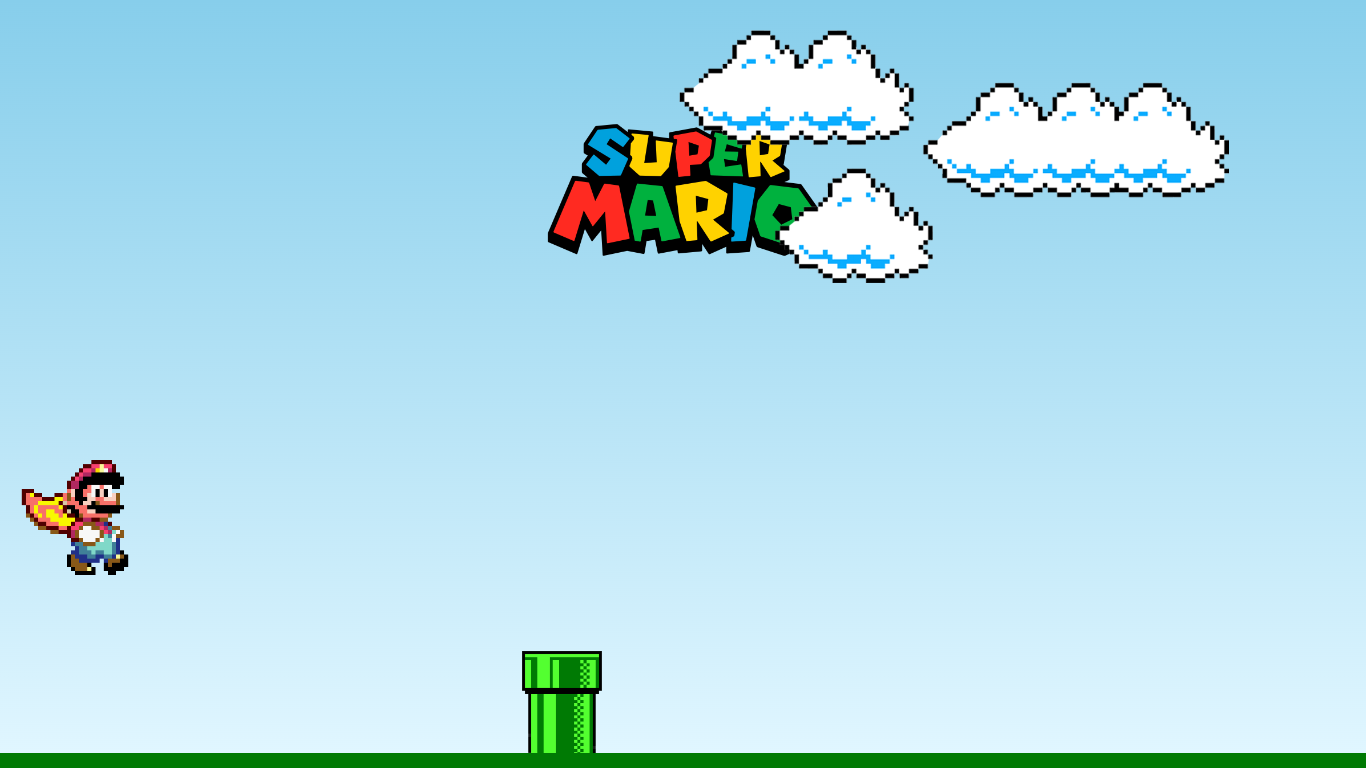
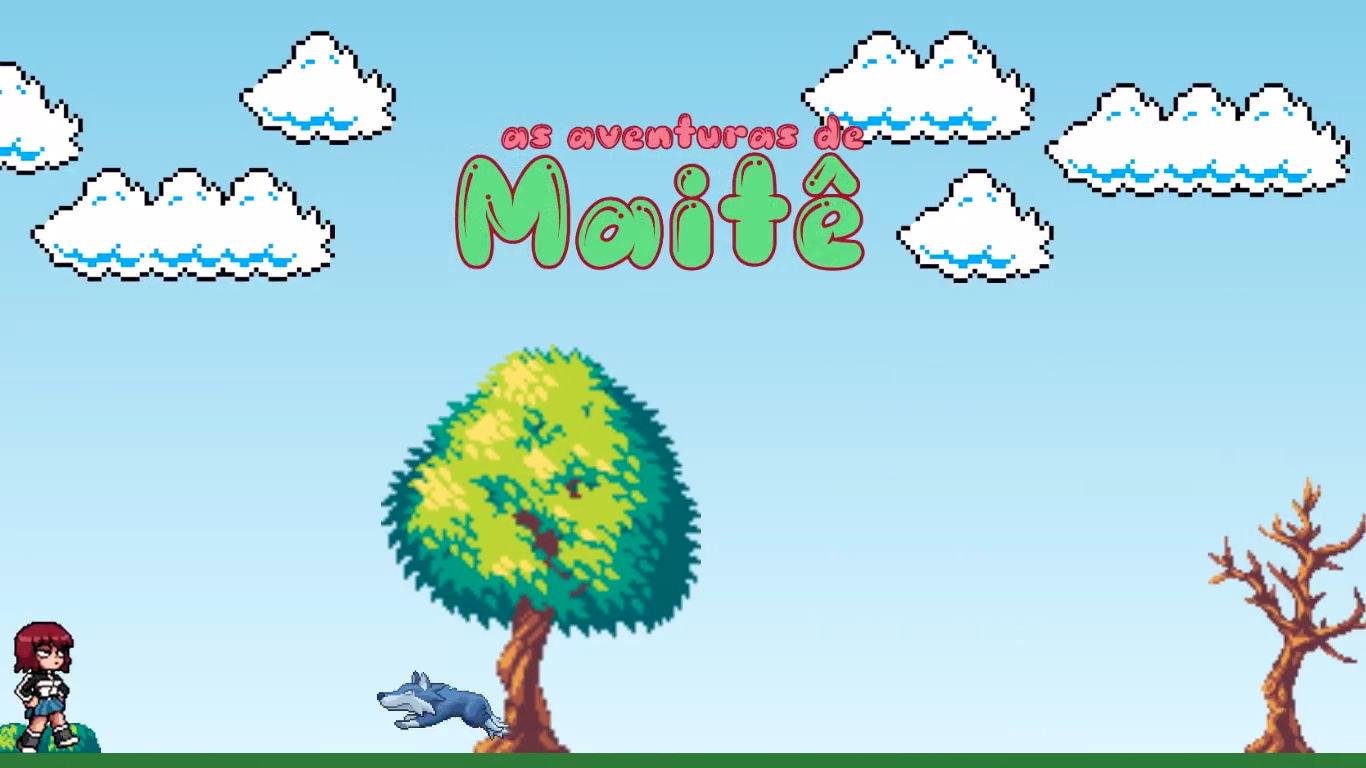
Inclusão de assets para background e personagem

diff --git a/css/style.css b/css/style.css
@@ -6,32 +6,33 @@
 
 .logo {
     position: absolute;
-    width: 20vw;
+    width: 30vw;
     top: 15%;
-    left: 40%;
+    left: 33.33%;
 }
 
 .game-board {
   width: 100%;
   height: 100vh;
-  border-bottom: 15px solid #007A04;
+  border-bottom: 15px solid #337a35;
   margin: 0 auto;
   position: relative;
   overflow: hidden;
   background: linear-gradient(#87ceeb, #e0f6ff);
 }
 
-.pipe {
+.wolf {
   position: absolute;
   bottom: 0;
-  width: 80px;
-  animation: pipe-animation 2s infinite linear;
+  width: 150px;
+  animation: wolf-animation 3s infinite linear;
 }
 
-.mario {
-  width: 150px;
+.maite {
+  width: 80px;
   position: absolute;
   bottom: 0;
+  margin-bottom: -2px;
 }
 
 .clouds {
@@ -41,18 +42,42 @@
   animation: clouds-animation 20s infinite linear;
 }
 
-.clouds2 {
-  width: 550px;
+.clouds-2 {
+  height: 252px;
   position: absolute;
   top: 30px;
-  animation: clouds-animation 30s infinite linear;
+  animation: clouds-2-animation 30s infinite linear;
+}
+
+.grass,
+.tree-1 {
+  width: 180px;
+  right: -350px;
+  position: absolute;
+  bottom: 0;
+  animation: tree-animation 10s infinite linear;
+}
+
+.tree {
+  width: 320px;
+  position: absolute;
+  bottom: 0;
+  animation: tree-animation 10s infinite linear;
+}
+
+.tree-1 {
+  animation-delay: 4s;
+}
+
+.grass {
+  animation-delay: 6.5s;
 }
 
 .jump {
   animation: jump 500ms ease-out;
 }
 
-@keyframes pipe-animation {
+@keyframes wolf-animation {
   from {
     right: -80px;
   }
@@ -83,6 +108,24 @@
 @keyframes clouds-animation {
   from {
     right: -550px;
+  }
+  to {
+    right: 100%;
+  }
+}
+
+@keyframes clouds-2-animation {
+  from {
+    right: -1550px;
+  }
+  to {
+    right: 100%;
+  }
+}
+
+@keyframes tree-animation {
+  from {
+    right: -350px;
   }
   to {
     right: 100%;

diff --git a/js/script.js b/js/script.js
@@ -1,34 +1,35 @@
-const mario = document.querySelector('.mario');
-const pipe = document.querySelector('.pipe');
+const maite = document.querySelector('.maite');
+const wolf = document.querySelector('.wolf');
 
 const jump = () => {
-  mario.classList.add('jump');
+  maite.classList.add('jump');
 
   setTimeout(() => {
-    mario.classList.remove('jump');
+    maite.classList.remove('jump');
   }, 500);
 }
 
 const loop = setInterval(() => {
 
-const pipePosition = pipe.offsetLeft;
-const marioPosition = +window.getComputedStyle(mario).bottom.replace('px', '');
+const pipePosition = wolf.offsetLeft;
+const marioPosition = +window.getComputedStyle(maite).bottom.replace('px', '');
 
-    if (pipePosition <= 120 && pipePosition > 0 && marioPosition < 80) {
+    if (pipePosition <= 80 && pipePosition > 0 && marioPosition < 80) {
 
-        pipe.style.animation = 'none';
-        pipe.style.left = `${pipePosition}px`;
+        wolf.style.animation = 'none';
+        wolf.style.left = `${pipePosition}px`;
 
-        mario.style.animation = 'none';
-        mario.style.bottom = `${marioPosition}px`;
+        maite.style.animation = 'none';
+        maite.style.bottom = `${marioPosition}px`;
 
-        mario.src = './images/game-over.png';
-        mario.style.width = '75px'
-        mario.style.marginLeft = '50px'
+        maite.src = './images/game-over.gif';
+        maite.style.width = '75px'
+        maite.style.marginLeft = '0px'
+        maite.style.marginBottom = '-2px'
 
         clearInterval(loop);
     }
 
 }, 10);
 
-document.addEventListener('keydown', jump);
+document.addEventListener('keypress', jump);

diff --git a/index.html b/index.html
@@ -8,16 +8,20 @@
     <link rel="stylesheet" href="./css/style.css">
     <script src="./js/script.js" defer></script>
 
-    <title>Super Mario Run</title>
+    <title>As Aventuras de Maitê</title>
 
 </head>
 <body>
     <div class="game-board">
 
-        <img src="./images/logo.png" class="logo">
+        <img src="./images/tree.png" class="tree">
+        <img src="./images/tree-1.png" class="tree-1">
+        <img src="./images/grass.png" class="grass">
         <img src="./images/clouds.png" class="clouds">
-        <img src="./images/pipe.png" class="pipe">
-        <img src="./images/mario.gif" class="mario">
+        <img src="./images/logo.png" class="logo">
+        <img src="./images/clouds-2.png" class="clouds-2">
+        <img src="./images/wolf.webp" class="wolf">
+        <img src="./images/maite.gif" class="maite">
 
     </div>
 </script>

diff --git a/readme.md b/readme.md
@@ -1,4 +1,4 @@
-<h1 align="center"> Super Mario Run</h1>
+<h1 align="center">🌳 As Aventuras de Maitê 🐺</h1>
 
 <p align="center">
 Game desenvolvido utilizando apenas linguagens básicas para prática de aprendizado.
@@ -15,12 +15,12 @@ Game desenvolvido utilizando apenas linguagens básicas para prática de aprendi
 <br>
 
 <p align="center">
-  <img alt="calendario da copa" src="./images/preview.png" width="100%">
+  <img alt="As Aventuras de Maitê" src="./images/preview.png" width="100%">
 </p>
 
 ## 💻 Projeto
 
-Jogo ao estilo T-Rex Game, do Google Chrome, onde o personagem deve desviar dos canos que vêm em sua direção.
+Jogo ao estilo T-Rex Game, do Google Chrome, onde a personagem deve desviar dos perigos que vêm em sua direção.
 
 
 ## 🚀 Tecnologias
@@ -34,7 +34,7 @@ Esse projeto foi desenvolvido com as seguintes tecnologias:
 
 ## 🎮 Jogar
 
-Clique [aqui](https://aylmerbolzan.github.io/Super-Mario-Run/) para iniciar o jogo.
+Clique [aqui](https://aylmerbolzan.github.io/As-Aventuras-de-Maite/) para iniciar o jogo.
 
 ---
 <br>
